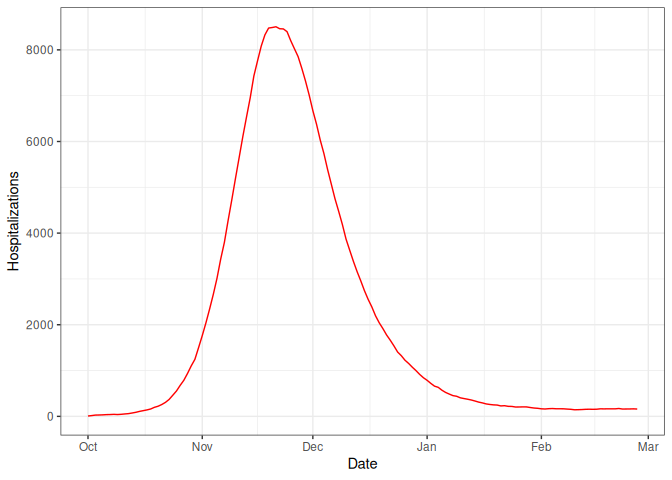
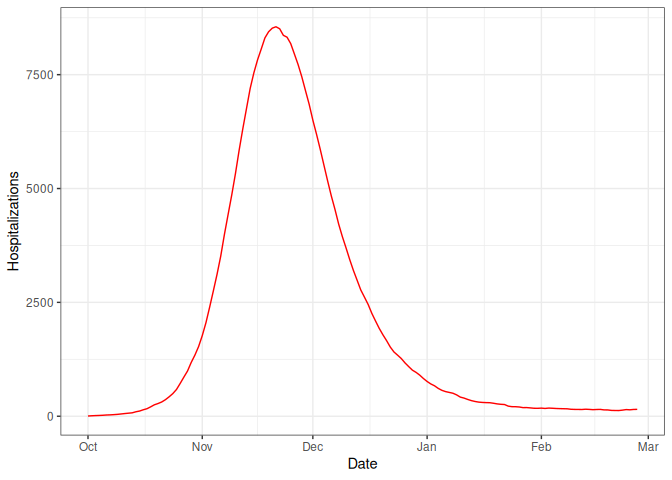
Support distribution specs in sub_disease_params; sync version/pkgdown docs
- metarvm_apply_sub_disease_params() now draws from distribution specs
  (one independent sample per nsim row) in addition to scalar overrides,
  shared by flu and measles via the existing draw_sample() machinery
- Bump dev version to 2.2.0.9000 and enable pkgdown development: mode: auto
  so the site distinguishes release vs. dev builds automatically
- README.Rmd now derives the dev version from DESCRIPTION instead of a
  hardcoded string, and README.md is rebuilt from it

diff --git a/README.md b/README.md
@@ -55,14 +55,14 @@ Full documentation is available at:
 
 ### Installation
 
-The current CRAN release is **2.1.0**. Install it with:
+Install the current CRAN release with (see the CRAN badge above for the
+exact released version):
 
 ``` r
 install.packages("MetaRVM")
 ```
 
-The development version (2.2.0, adds measles model and programmatic
-config builder) is available from GitHub:
+The development version (2.2.0) is available from GitHub:
 
 ``` r
 # install.packages("remotes")
@@ -165,9 +165,9 @@ CSV inputs are required alongside the config.
 |----|----|----|
 | Population initialization (`population_init.csv`) | Yes | Defines demographic strata with user-defined category columns (e.g., age, zone, race, income_level) and initial population states. Categories are automatically detected from column names. |
 | Mixing matrices (`mixing_matrix_*.csv`) | Yes | Four contact matrices, consistent with the population strata. These typically represent weekday/weekend and day/night mixing patterns. |
-| Vaccination schedule (`vaccination.csv`) | Flu only | Time-varying vaccination counts or rates by stratum, used to move individuals from `S` to `V`. Not required for measles. |
-| Disease parameters | Yes | Scalar values or distribution specs (lognormal, gamma, etc.) for each disease-specific parameter. See the pkgdown reference for per-disease parameter lists. |
-| Checkpoint files | Optional (flu) | Internal model state snapshots used to resume or branch simulations (e.g., for phased calibration). |
+| Vaccination schedule (`vaccination.csv`) | Flu only | Time-varying vaccination counts or rates by stratum, used to move individuals from `S` to `V`. Measles instead uses `V10`/`V20` columns in the population CSV to seed one- and two-dose vaccinated compartments — no separate file needed. |
+| Disease parameters | Yes | Scalar values or distribution specs (lognormal, gamma, etc.) for each disease-specific parameter. Flu uses `ts`, `ve`, `dv`, `de`, `dp`, `da`, `ds`, `dh`, `dr`, `pea`, `psr`, `phr`. Measles uses `beta`, `de1`, `de2`, `di1`, `di2`, `prop_I1_Q`, `prop_I2_Q`, `V1_eff`, `V2_eff`. |
+| Checkpoint files | Optional | Internal model state snapshots used to resume or branch simulations (e.g., for phased calibration). Supported for both flu and measles. |
 
 ### Model output structure
 
@@ -206,9 +206,10 @@ List of vignettes:
   parameter blocks, optional modules, and how to define population
   strata and mixing patterns.
 
-- **Running Simulation** Full example using a complete set of input
-  files, showing how MetaRVM reads population initialization data,
-  mixing matrices, and vaccination schedules.
+- **Running a Simulation with metaRVM** Full example using a complete
+  set of input files, showing how MetaRVM reads population
+  initialization data, mixing matrices, and vaccination schedules.
+  Includes flu and measles examples.
 
 <!-- - **Understanding Outputs**  
   Explains the structure of `sim$results`, the meaning of disease states and flow variables, and how to compute aggregated quantities. -->
